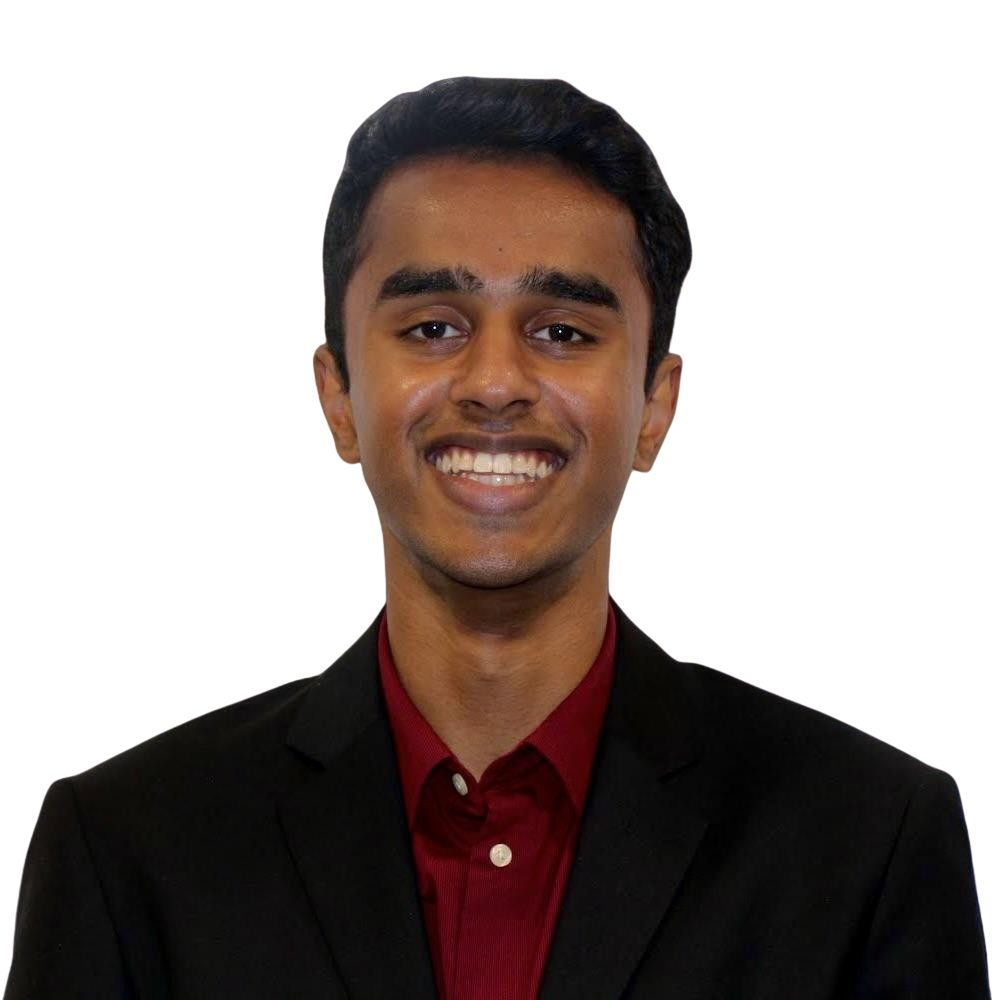
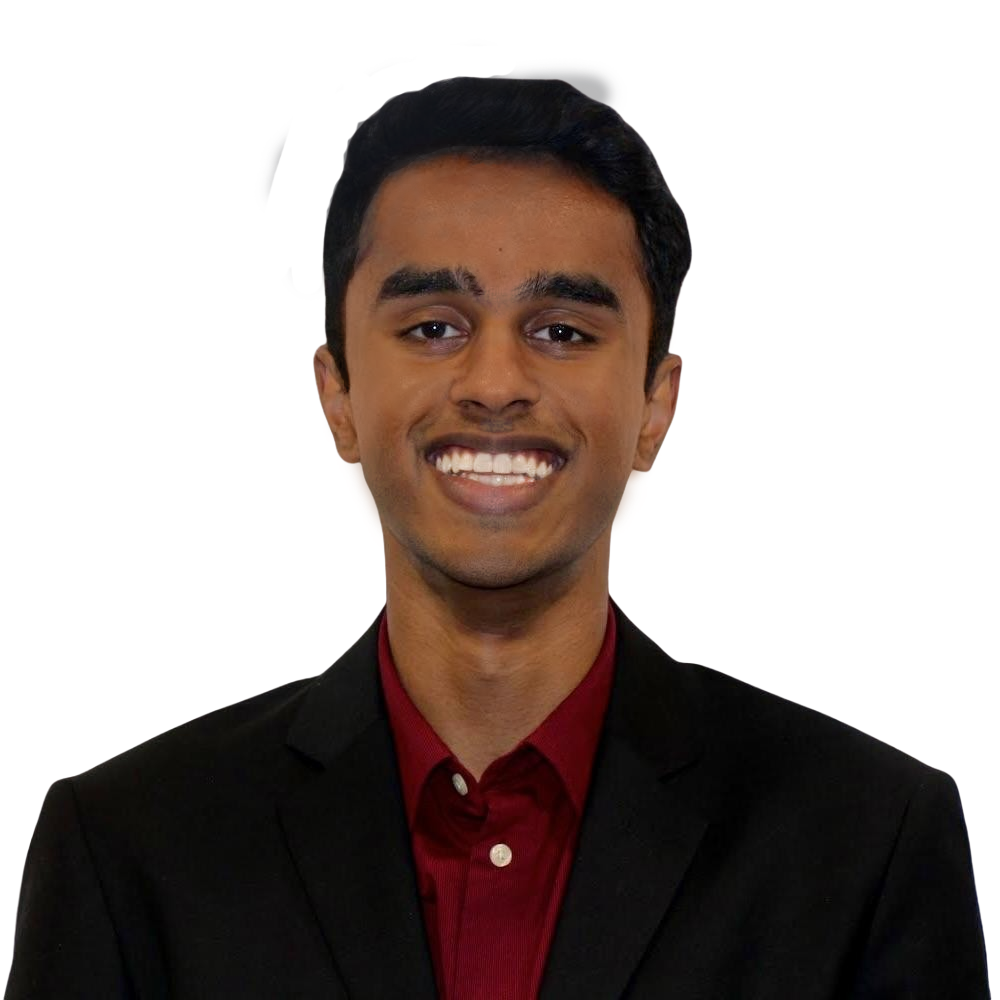
Adjusted section names for consistency
Edited headshot
Renamed Intro -> About
Renamed XpSkills -> Skills

diff --git a/portfolio/src/sections/Skills.js b/portfolio/src/sections/Skills.js
@@ -1,0 +1,44 @@
+import React from 'react';
+import { SiPython, SiJavascript, SiCplusplus, SiReact, SiTensorflow, SiGit } from 'react-icons/si'; //https://react-icons.github.io/react-icons/icons/si/
+
+const skills = [
+    { name: 'Python', icon: SiPython },
+    { name: 'C++', icon: SiCplusplus },
+    { name: 'JavaScript', icon: SiJavascript },
+    { name: 'Tensorflow', icon: SiTensorflow },
+    { name: 'React', icon: SiReact },
+    { name: 'Git', icon: SiGit },
+];
+
+function Skills() {
+    return (
+        <section
+            id="Skills"
+            className="flex flex-col items-center justify-center gap-8 p-8 bg-background"
+        >
+            {/* Heading */}
+            <h1 className="text-6xl font-semibold text-primary mb-4 text-center">
+                Skills
+            </h1>
+
+            {/* Skill Badges Container */}
+            <div className="flex flex-wrap gap-6 justify-center max-w-4xl">
+                {skills.map((skill) => (
+                    <div
+                        key={skill.name}
+                        className="w-24 h-24 flex flex-col items-center justify-center border-2 border-primary 
+                                   rounded-xl shadow hover:scale-105 transition-transform"
+                    >
+                        <div className="text-4xl mt-2 text-primary">
+                            <skill.icon />
+                        </div>
+                        <span className="text-xs mt-2 text-text">{skill.name}</span>
+                    </div>
+                ))}
+            </div>
+        </section>
+    );
+}
+
+
+export default Skills;

diff --git a/portfolio/src/sections/About.js b/portfolio/src/sections/About.js
@@ -1,9 +1,9 @@
 import React from 'react';
 
-function Intro() {
+function About() {
   return (
     <section
-      id="Intro"
+      id="About"
       className="flex flex-col md:flex-row items-center justify-center gap-12 p-8 bg-background"
     >
       {/* Left */}
@@ -15,11 +15,12 @@ function Intro() {
         </h1>
 
         {/* Description */}
-        <p className="text-xl text-text mb-6">
-          (This is from ChatGPT, I need to write my own and make it sound less robotic. Maybe 5-6 sentences.)
-          I am a computer engineer and data scientist with a passion for solving complex problems through technology.
-          My journey in the tech world has been driven by curiosity and a desire to make a positive impact.
-        </p>
+        <div className="space-y-4 text-text text-xl">
+          <p>Hi! I'm Saathveek, a student studying Computer Engineering and Data Science at the University of Illinois Urbana-Champaign.</p>
+          <p>I'm passionate about applying my skills to drive meaningful impact - whether through internships, research, extracurriculars, or my future career.</p>
+          <p>With experience in software development, infrastructure engineering, data analysis, and machine learning, I'm always seeking new challenges and opportunities to grow as an engineer, problem solver, and leader.</p>
+        </div>
+
       </div>
 
       {/* Right */}
@@ -35,4 +36,4 @@ function Intro() {
   );
 }
 
-export default Intro;
+export default About;

diff --git a/portfolio/src/sections/Navbar.js b/portfolio/src/sections/Navbar.js
@@ -6,9 +6,10 @@ function Navbar() {
         <div className="max-w-6xl mx-auto px-4 py-3 flex justify-between items-center">
         <span className="font-bold text-xl text-primary">Saathveek Gowrishankar</span>
         <ul className="flex space-x-6">
-            <li><a href="#Hero" className="text-text hover:text-primary">Hero</a></li>
-            <li><a href="#Intro" className="text-text hover:text-primary">Intro</a></li>
-            <li><a href="#XpSkills" className="text-text hover:text-primary">XpSkills</a></li>
+            <li><a href="#Hero" className="text-text hover:text-primary">Home</a></li>
+            <li><a href="#About" className="text-text hover:text-primary">About</a></li>
+            <li><a href="#Skills" className="text-text hover:text-primary">Skills and Certificates</a></li>
+            <li><a href="#Experience" className="text-text hover:text-primary">Experience</a></li>
             <li><a href="#Contact" className="text-text hover:text-primary">Contact</a></li>
         </ul>
         </div>

diff --git a/portfolio/src/App.js b/portfolio/src/App.js
@@ -1,8 +1,8 @@
 import React, { useEffect, useState } from 'react';
 import Hero from './sections/Hero';
 import Navbar from './sections/Navbar';
-import Intro from './sections/Intro';
-import XpSkills from './sections/XpSkills';
+import About from './sections/About';
+import Skills from './sections/Skills';
 import Contact from './sections/Contact';
 
 import './App.css';
@@ -24,8 +24,8 @@ function App() {
     <div>
       <Hero />
       {showNavbar && <Navbar />}
-      <Intro />
-      <XpSkills />
+      <About />
+      <Skills />
       <Contact />
     </div>
   );  
